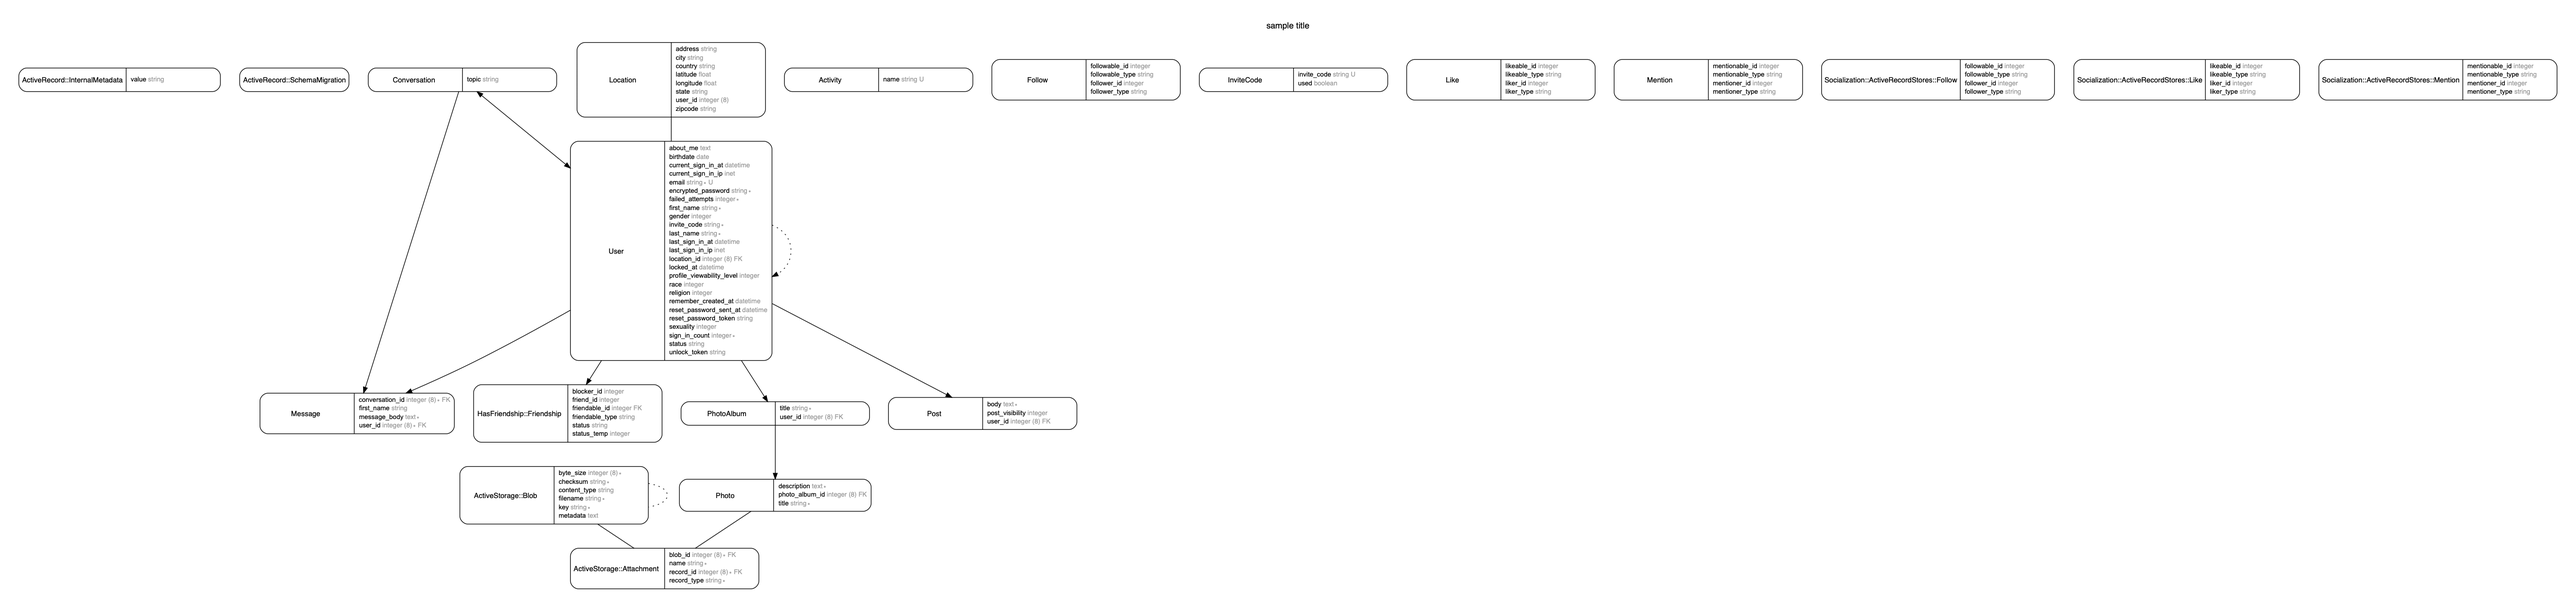
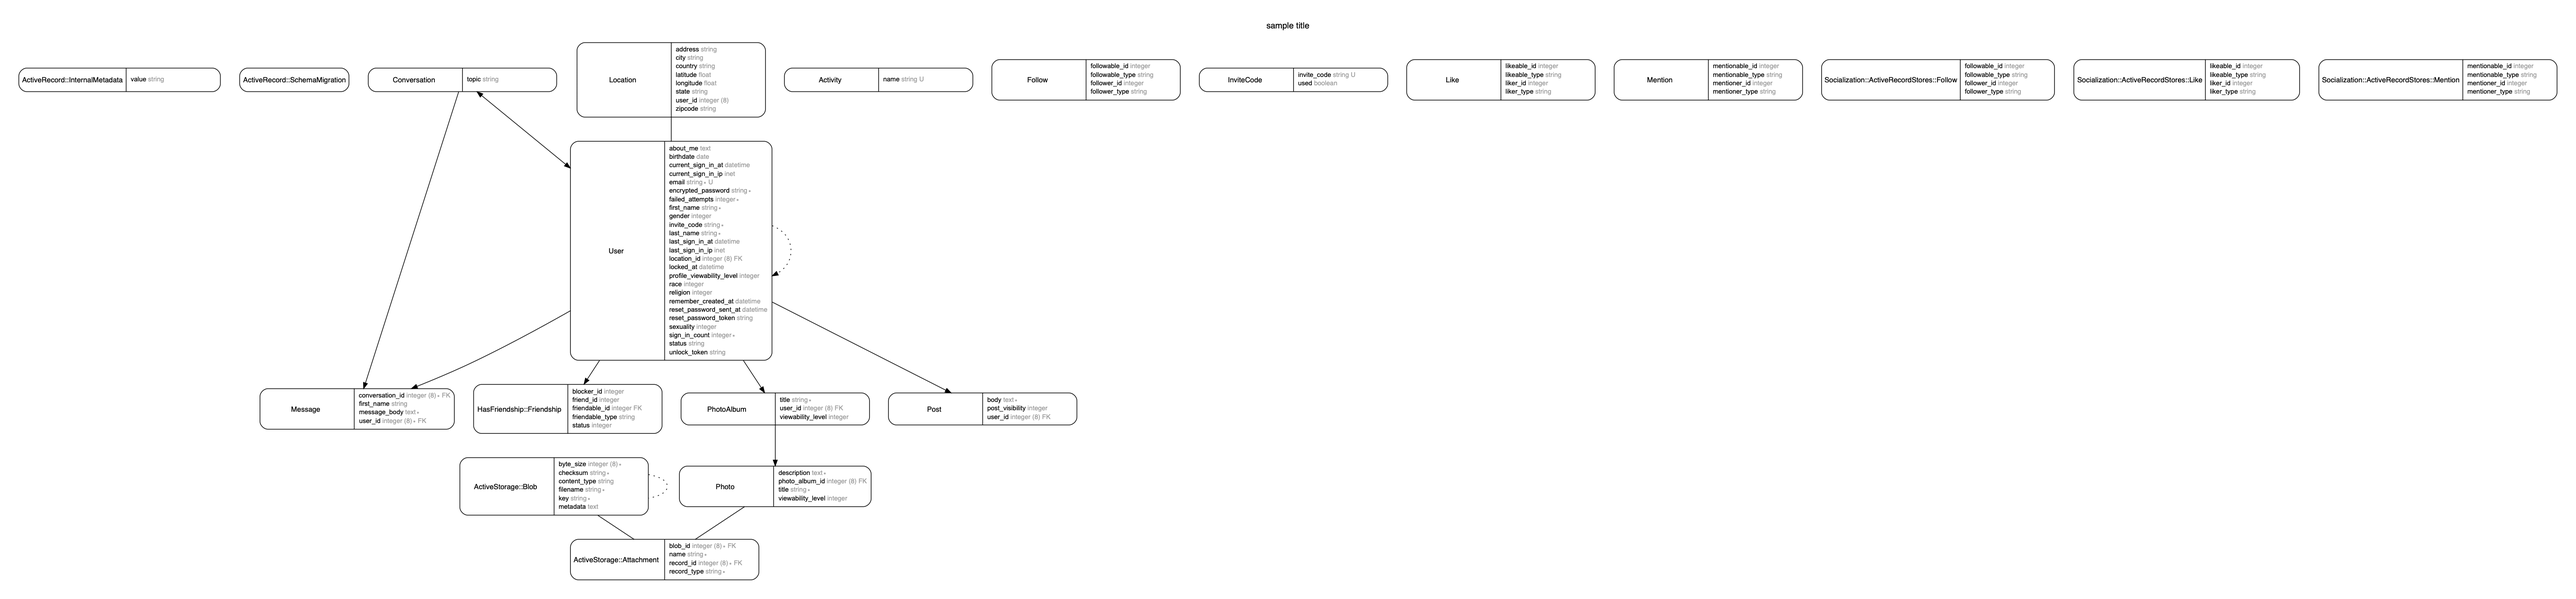
users can now set privacy levels on photos and photo albums, as well as delete their photos.

diff --git a/app/controllers/photo_albums_controller.rb b/app/controllers/photo_albums_controller.rb
@@ -1,35 +1,65 @@
+# frozen_string_literal: true
+
 class PhotoAlbumsController < ApplicationController
+  def index
+    @photo_albums = current_user.photo_albums
+  end
 
-    def index
-        @photo_albums = current_user.photo_albums
+  def show
+    @photo_album = PhotoAlbum.find params[:id]
+
+    if @photo_album.viewability_level == PhotoAlbum.viewability_levels[:only_me]
+      if current_user != @photo_album.user
+        redirect_to root_path, notice: 'You do not have permission to view this album.'
+      end
     end
 
-    def show
-        @photo_album = PhotoAlbum.find params[:id]
-        @photo = Photo.new
-    end
-
-    def new
-        @photo_album = PhotoAlbum.new
-    end
-
-    def create
-        @photo_album = PhotoAlbum.new(create_sanitized_params)
-        @photo_album.user = current_user
-
-        respond_to do |format|
-            if @photo_album.save!
-                format.html { redirect_to @photo_album, notice: 'Photo Album was successfully created.' }
-                format.json { render :show, status: :created, location: @photo_album }
-            else
-                format.html { render :new, notice: 'Could not create photo album.' }
-                format.json { render json: @photo_album.errors, status: :unprocessable_entity }
-            end
+    if @photo_album.viewability_level == PhotoAlbum.viewability_levels[:friends_only]
+        unless @photo_album.user.friends.include? current_user
+            redirect_to root_path, notice: 'You do not have permission to view this album.'
         end
     end
 
-    def create_sanitized_params
-        params.require(:photo_album).permit(:title)
+    @photos = @photo_album.photos
+    @photos_to_remove = []
+
+    @photos.each do |photo|
+      if photo.viewability_level == Photo.viewability_levels[:friends_only]
+        unless photo.photo_album.user.friends.include? current_user
+          @photos_to_remove.push(photo)
+        end
+      end
+
+      if photo.viewability_level == Photo.viewability_levels[:only_me]
+        @photos_to_remove.push(photo)
+      end
     end
 
+    @photos -= @photos_to_remove
+
+    @photo = Photo.new
+  end
+
+  def new
+    @photo_album = PhotoAlbum.new
+  end
+
+  def create
+    @photo_album = PhotoAlbum.new(create_sanitized_params)
+    @photo_album.user = current_user
+
+    respond_to do |format|
+      if @photo_album.save!
+        format.html { redirect_to @photo_album, notice: 'Photo Album was successfully created.' }
+        format.json { render :show, status: :created, location: @photo_album }
+      else
+        format.html { render :new, notice: 'Could not create photo album.' }
+        format.json { render json: @photo_album.errors, status: :unprocessable_entity }
+      end
+    end
+  end
+
+  def create_sanitized_params
+    params.require(:photo_album).permit(:title, :viewability_level)
+  end
 end

diff --git a/app/controllers/photos_controller.rb b/app/controllers/photos_controller.rb
@@ -17,9 +17,37 @@ class PhotosController < ApplicationController
 
   def show
     @photo = Photo.find params[:id]
+    @photo_album = @photo.photo_album
+
+    if @photo.viewability_level == Photo.viewability_levels[:only_me]
+      if @photo.photo_album.user != current_user
+        redirect_to root_path, notice: 'You do not have permission to view this album.'
+      end
+    end
+
+    if @photo.viewability_level == Photo.viewability_levels[:friends_only]
+      unless @photo.photo_album.user.friends.include? current_user
+        redirect_to root_path, notice: 'You do not have permission to view this album.'
+      end
+    end
+  end
+
+  def delete_photo
+    @photo = Photo.find params[:id]
+    @photo_album = @photo.photo_album
+
+    if @photo.photo_album.user == current_user
+      @photo.image.purge_later 
+      @photo.delete
+    end
+
+    respond_to do |format|
+        format.html { redirect_to @photo_album, notice: 'Photo was successfully deleted.' }
+        format.json { render :show, status: :deleted, location: @photo_album }
+    end
   end
 
   def create_sanitized_params
-    params.require(:photo).permit(:title, :description, :image, :photo_album_id)
+    params.require(:photo).permit(:title, :description, :image, :photo_album_id, :viewability_level)
   end
 end

diff --git a/db/schema.rb b/db/schema.rb
@@ -10,7 +10,7 @@
 #
 # It's strongly recommended that you check this file into your version control system.
 
-ActiveRecord::Schema.define(version: 2019_09_04_181820) do
+ActiveRecord::Schema.define(version: 2019_09_06_142456) do
 
   # These are extensions that must be enabled in order to support this database
   enable_extension "plpgsql"
@@ -133,6 +133,7 @@ ActiveRecord::Schema.define(version: 2019_09_04_181820) do
     t.bigint "user_id"
     t.datetime "created_at", null: false
     t.datetime "updated_at", null: false
+    t.integer "viewability_level"
     t.index ["user_id"], name: "index_photo_albums_on_user_id"
   end
 
@@ -142,6 +143,7 @@ ActiveRecord::Schema.define(version: 2019_09_04_181820) do
     t.bigint "photo_album_id"
     t.datetime "created_at", null: false
     t.datetime "updated_at", null: false
+    t.integer "viewability_level"
     t.index ["photo_album_id"], name: "index_photos_on_photo_album_id"
   end
 

diff --git a/config/routes.rb b/config/routes.rb
@@ -13,7 +13,11 @@ Rails.application.routes.draw do
   resources :messages
 
   resources :photo_albums
-  resources :photos
+  resources :photos do
+    collection do
+      delete 'delete_photo'
+    end
+  end
 
   resources :posts do
     collection do

diff --git a/db/migrate/20190906142456_add_viewability_level_to_photo_albums.rb b/db/migrate/20190906142456_add_viewability_level_to_photo_albums.rb
@@ -1,0 +1,5 @@
+class AddViewabilityLevelToPhotoAlbums < ActiveRecord::Migration[5.2]
+  def change
+    add_column :photo_albums, :viewability_level, :integer
+  end
+end

diff --git a/db/migrate/20190906141439_add_viewability_level_to_photos.rb b/db/migrate/20190906141439_add_viewability_level_to_photos.rb
@@ -1,0 +1,5 @@
+class AddViewabilityLevelToPhotos < ActiveRecord::Migration[5.2]
+  def change
+    add_column :photos, :viewability_level, :integer
+  end
+end

diff --git a/app/models/photo.rb b/app/models/photo.rb
@@ -1,4 +1,6 @@
 class Photo < ApplicationRecord
+    include FafEnums
+
     has_one_attached :image
     belongs_to :photo_album
 

diff --git a/app/models/photo_album.rb b/app/models/photo_album.rb
@@ -1,4 +1,6 @@
 class PhotoAlbum < ApplicationRecord
+    include FafEnums
+
     has_many :photos
     belongs_to :user
 
